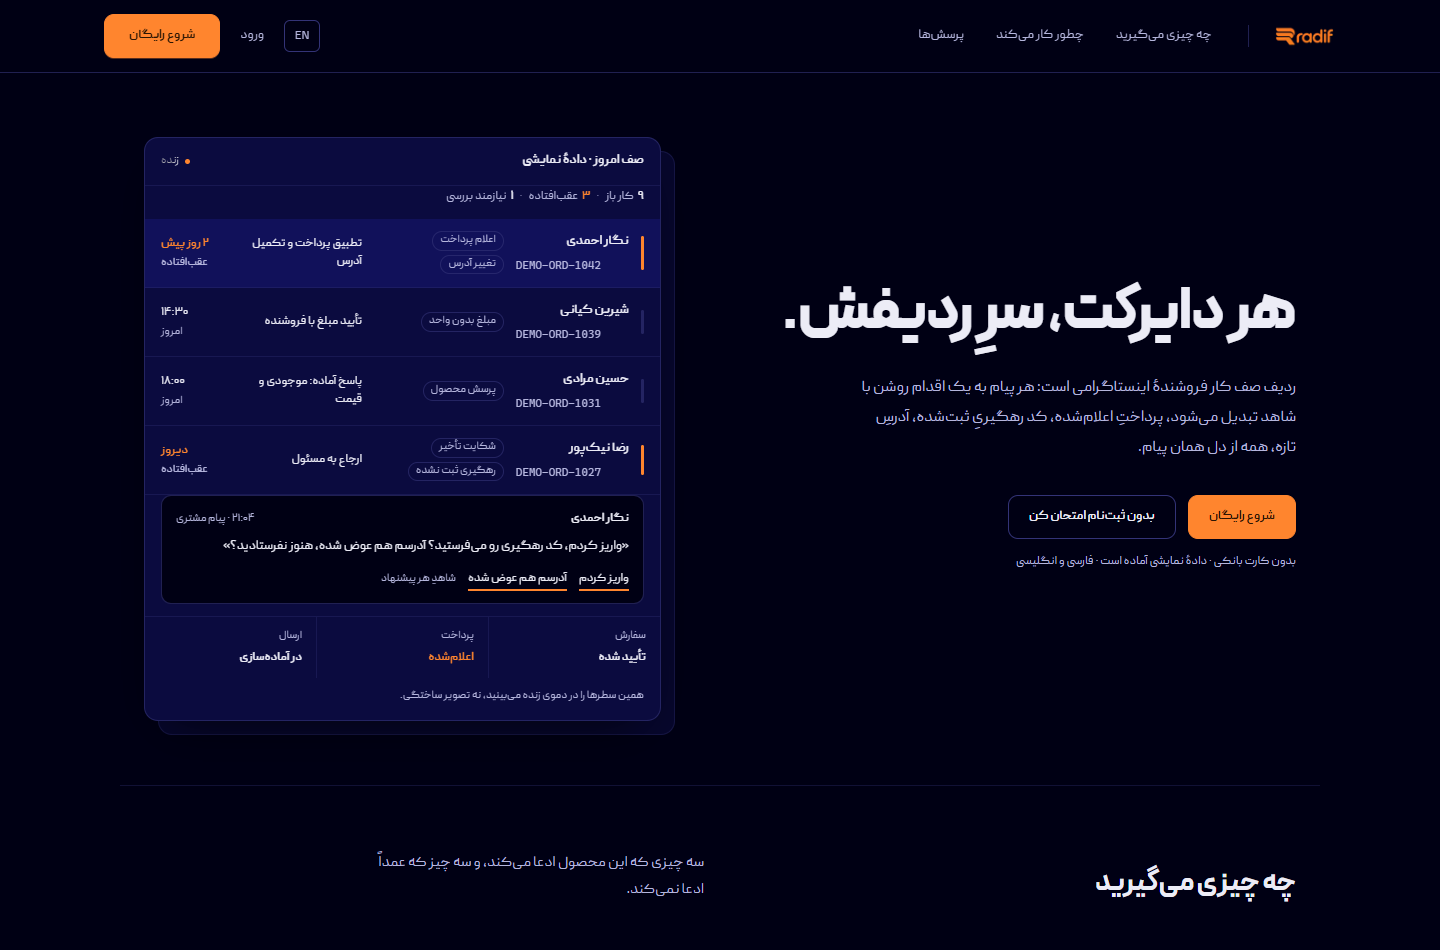
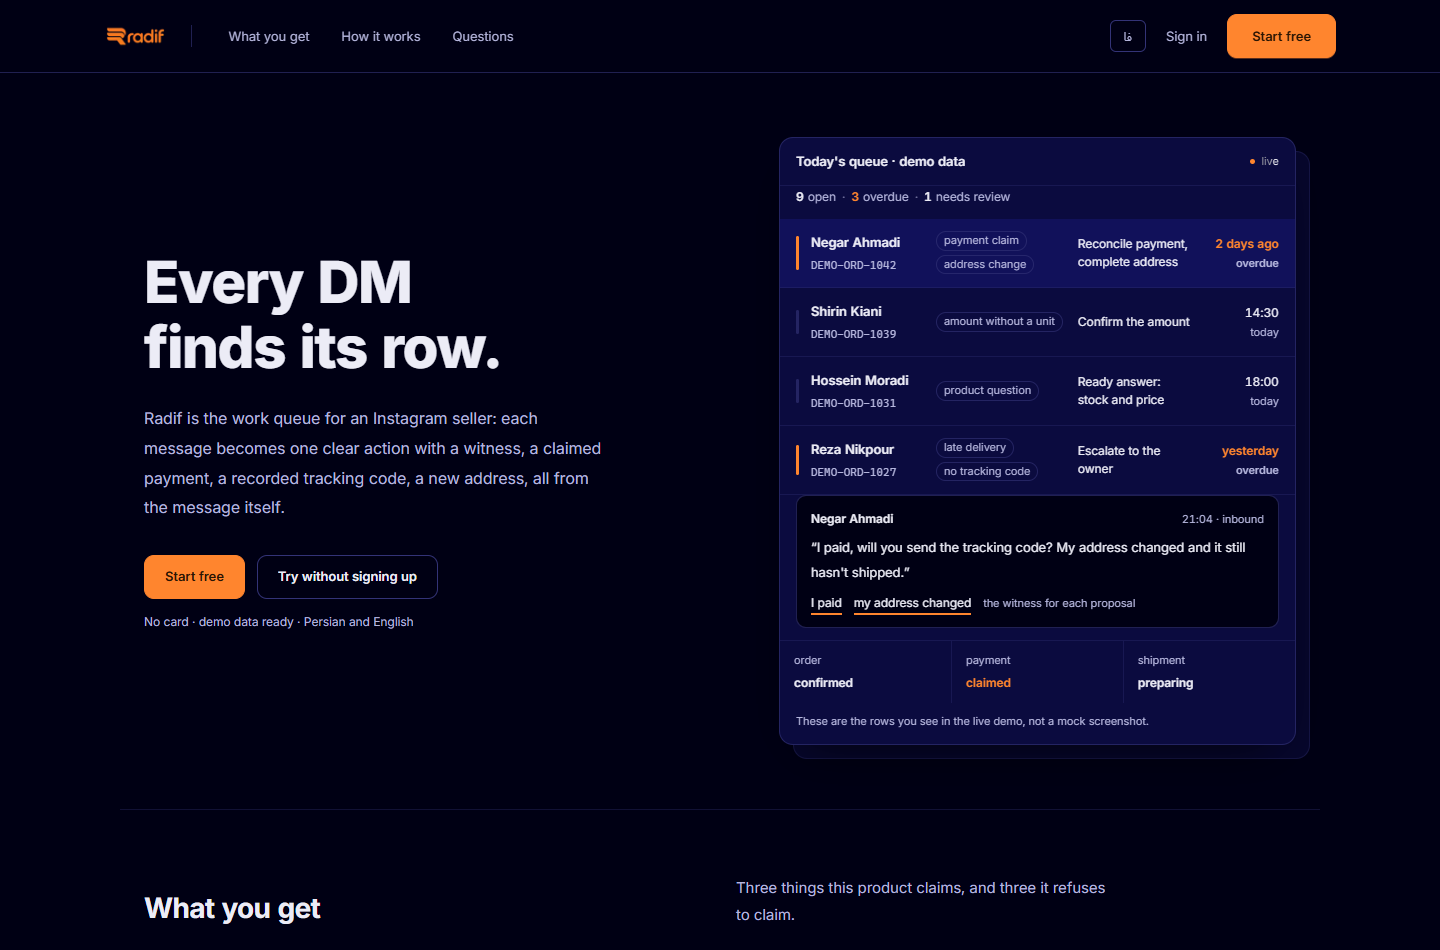
fix(i18n): the English ledger speaks English, and the README shows the English product
The screenshot exposed a real leak that the earlier pass missed: the Today ledger's
"why it is here" and "next action" sentences are generated inside the service, not in
the screens I had translated. getToday now takes the reader's locale and every sentence
it builds comes from src/i18n/task-copy.ts: reasonText by reasonCode, nextAction by task
type, the sub-facts ("payment unverified · parcel being prepared") by fragment key, and
an unnamed customer by locale. A Persian reader gets the Persian rendering of the same
facts; nothing about the stored record changed.

Also replaced the three README screenshots with English UI captures (landing, the signed-in
Today queue, the phone landing), since the README is English-first.

Verified: the ledger now renders "Payment claimed, not reconciled before shipping" /
"Reconcile the payment, then confirm" / "payment verified · parcel being prepared" on
/en; body font computed as Inter with tabular figures in the table; /fa still Peyda with
Persian digits. tsc 0, build ok, 23 files / 151 tests.

diff --git a/src/server/services/today.ts b/src/server/services/today.ts
@@ -1,4 +1,6 @@
 import type { SessionContext } from "@/server/session";
+import { fragment, taskNextAction, taskReason, unnamedCustomer } from "@/i18n/task-copy";
+import type { Locale } from "@/i18n/config";
 import { prisma } from "@/server/db";
 import type { Prisma } from "@/generated/prisma/client";
 import type { PriorityValue, SourceValue, TodayDTO, TodayRow } from "@/lib/dto";
@@ -88,7 +90,7 @@ export type TodayFilter = {
   due?: "overdue" | "next24h" | "next7d";
 };
 
-export async function getToday(ctx: SessionContext, filter: TodayFilter = {}): Promise<TodayDTO> {
+export async function getToday(ctx: SessionContext, filter: TodayFilter = {}, locale: Locale = "fa"): Promise<TodayDTO> {
   const now = new Date();
   const timeZone = ctx.tenant.timezone;
   const tenantId = ctx.tenant.id;
@@ -124,7 +126,7 @@ export async function getToday(ctx: SessionContext, filter: TodayFilter = {}): P
 
   const fallbackSources = await sourceFallbackFor(tenantId, tasks);
 
-  const items = tasks.map((task) => toRow(task, now, timeZone, fallbackSources));
+  const items = tasks.map((task) => toRow(task, now, timeZone, fallbackSources, locale));
   const stats = computeStats(windowMessages, unanswered);
   const dayStrip = hourlyInbound(windowMessages, window, timeZone);
 
@@ -305,10 +307,11 @@ function toRow(
   now: Date,
   timeZone: string,
   fallbackSources: Map<string, SourceValue>,
+  locale: Locale,
 ): TodayRow {
   const order = task.order;
   const customerName =
-    task.customer?.displayName ?? order?.customer?.displayName ?? "مشتری بدون نام";
+    task.customer?.displayName ?? order?.customer?.displayName ?? unnamedCustomer(locale);
   const customerId = task.customerId ?? null;
   const source: SourceValue =
     task.message?.source ??
@@ -319,10 +322,10 @@ function toRow(
     taskId: task.id,
     priority: task.priority as PriorityValue,
     reasonCode: task.reasonCode,
-    reasonText: reasonOf(task),
+    reasonText: taskReason(task.reasonCode, reasonOf(task), locale),
     title: task.title,
-    nextAction: NEXT_ACTION[task.type] ?? "بررسی و اقدام",
-    subline: sublineOf(task),
+    nextAction: taskNextAction(task.type, locale),
+    subline: sublineOf(task, locale),
     dueAt: task.dueAt?.toISOString() ?? null,
     dueLabel: dueLabelOf(task.dueAt, now, timeZone),
     customerName,
@@ -351,35 +354,35 @@ function reasonOf(task: TodayTask): string {
  * آدرس جدید نامشخص»). Only facts read from stored state — a claim nobody has
  * verified, a missing tracking code, where the parcel actually is.
  */
-function sublineOf(task: TodayTask): string | null {
+function sublineOf(task: TodayTask, locale: Locale): string | null {
   const parts: string[] = [];
   const claim = task.order?.paymentClaims[0] ?? null;
   const shipment = task.order?.shipments[0] ?? null;
 
   if (task.type === "payment_reconcile" || task.reasonCode === "payment_claim_unverified") {
-    parts.push(claim?.status === "verified" ? "پرداخت تأییدشده" : "پرداخت بررسینشده");
+    parts.push(fragment(claim?.status === "verified" ? "payment_verified" : "payment_unverified", locale));
   } else if (claim?.status === "claimed" || claim?.status === "disputed") {
-    parts.push("پرداخت بررسینشده");
+    parts.push(fragment("payment_unverified", locale));
   } else if (claim?.status === "verified") {
-    parts.push("پرداخت تأییدشده");
+    parts.push(fragment("payment_verified", locale));
   }
 
   if (task.reasonCode === "address_change" || task.type === "address_complete") {
-    parts.push("آدرس تازه در پیام نیامده");
+    parts.push(fragment("address_not_in_message", locale));
   }
   if (task.reasonCode === "address_change_after_shipment") {
-    parts.push("تغییر آدرس پس از ارسال");
+    parts.push(fragment("address_after_shipment", locale));
   }
   if (task.type === "tracking_followup" || task.reasonCode === "tracking_missing") {
-    parts.push("کد رهگیری ثبت نشده");
+    parts.push(fragment("tracking_missing", locale));
   }
 
-  if (shipment?.status === "preparing") parts.push("مرسوله در حال آمادهسازی");
-  else if (shipment?.status === "shipped") parts.push("مرسوله ارسال شده");
-  else if (shipment?.status === "delivered") parts.push("مرسوله تحویل شده");
-  else if (shipment?.status === "paused") parts.push("ارسال متوقف شده");
+  if (shipment?.status === "preparing") parts.push(fragment("parcel_preparing", locale));
+  else if (shipment?.status === "shipped") parts.push(fragment("parcel_shipped", locale));
+  else if (shipment?.status === "delivered") parts.push(fragment("parcel_delivered", locale));
+  else if (shipment?.status === "paused") parts.push(fragment("shipping_paused", locale));
 
-  if (task.order?.status === "needs_review") parts.push("سفارش نیازمند بررسی");
+  if (task.order?.status === "needs_review") parts.push(fragment("order_needs_review", locale));
 
   if (parts.length === 0) return null;
   return [...new Set(parts)].slice(0, 3).join(" · ");

diff --git a/src/i18n/task-copy.ts b/src/i18n/task-copy.ts
@@ -78,3 +78,42 @@ export function taskDetail(type: string, stored: string | null, locale: Locale):
   if (locale === "fa") return stored;
   return DETAILS[type] ?? null;
 }
+
+const NEXT_ACTIONS: Record<string, { fa: string; en: string }> = {
+  payment_reconcile: { fa: "تطبیق پرداخت و تأیید", en: "Reconcile the payment, then confirm" },
+  address_complete: { fa: "تکمیل آدرس", en: "Complete the address" },
+  tracking_followup: { fa: "گرفتن کد رهگیری", en: "Get the tracking code" },
+  draft_review: { fa: "بررسی پیشنویس سفارش", en: "Review the order draft" },
+  customer_reply: { fa: "پاسخ به مشتری", en: "Reply to the customer" },
+  human_review: { fa: "بررسی انسانی", en: "A human has to look at this" },
+  shipment_action: { fa: "اقدام ارسال", en: "Shipment action" },
+};
+
+export function taskNextAction(type: string, locale: Locale): string {
+  if (locale !== "en") return NEXT_ACTIONS[type]?.fa ?? "بررسی و اقدام";
+  return NEXT_ACTIONS[type]?.en ?? humanize(type);
+}
+
+/** The small facts under a row ("unverified payment · parcel being prepared"). */
+const FRAGMENTS: Record<string, { fa: string; en: string }> = {
+  payment_unverified: { fa: "پرداخت بررسینشده", en: "payment unverified" },
+  payment_verified: { fa: "پرداخت تأییدشده", en: "payment verified" },
+  address_not_in_message: { fa: "آدرس تازه در پیام نیامده", en: "no new address in the message" },
+  address_after_shipment: { fa: "تغییر آدرس پس از ارسال", en: "address change after shipping" },
+  tracking_missing: { fa: "کد رهگیری ثبت نشده", en: "no tracking code recorded" },
+  parcel_preparing: { fa: "مرسوله در حال آمادهسازی", en: "parcel being prepared" },
+  parcel_shipped: { fa: "مرسوله ارسال شده", en: "parcel shipped" },
+  parcel_delivered: { fa: "مرسوله تحویل شده", en: "parcel delivered" },
+  shipping_paused: { fa: "ارسال متوقف شده", en: "shipping paused" },
+  order_needs_review: { fa: "سفارش نیازمند بررسی", en: "order needs review" },
+};
+
+export function fragment(key: string, locale: Locale): string {
+  const hit = FRAGMENTS[key];
+  if (!hit) return locale === "en" ? humanize(key) : key;
+  return locale === "en" ? hit.en : hit.fa;
+}
+
+export function unnamedCustomer(locale: Locale): string {
+  return locale === "en" ? "Unnamed customer" : "مشتری بدون نام";
+}

diff --git a/src/app/[locale]/invite/[token]/page.tsx b/src/app/[locale]/invite/[token]/page.tsx
@@ -3,6 +3,7 @@ import Link from "next/link";
 import { BrandEmblem } from "@/components/brand/brand-mark";
 import { AcceptInvite } from "@/components/marketing/accept-invite";
 import { getSessionContext } from "@/server/session";
+import { hashToken } from "@/server/services/invitations";
 import { prisma } from "@/server/db";
 import { routes } from "@/lib/routes";
 import { isLocale, type Locale } from "@/i18n/config";
@@ -30,7 +31,7 @@ export default async function InvitePage({
 
   const session = await getSessionContext();
   const invitation = await prisma.invitation.findFirst({
-    where: { tokenHash: (await import("@/server/services/invitations")).hashToken(token) },
+    where: { tokenHash: hashToken(token) },
     select: { email: true, role: true, expiresAt: true, acceptedAt: true, tenant: { select: { nameFa: true, nameEn: true } } },
   });
 

diff --git a/src/app/[locale]/(app)/today/page.tsx b/src/app/[locale]/(app)/today/page.tsx
@@ -58,7 +58,7 @@ export default async function TodayPage({
   const due = typeof sp.due === "string" && sp.due ? (sp.due as "overdue" | "next24h" | "next7d") : undefined;
   const filtered = Boolean(assignee || due);
 
-  const data = await getToday(ctx, { assignee, due });
+  const data = await getToday(ctx, { assignee, due }, locale);
 
   const rawView = typeof sp.view === "string" ? sp.view : null;
   const view = resolveWorkdeskView(ctx.role === "owner" ? "owner" : "operator", rawView);
